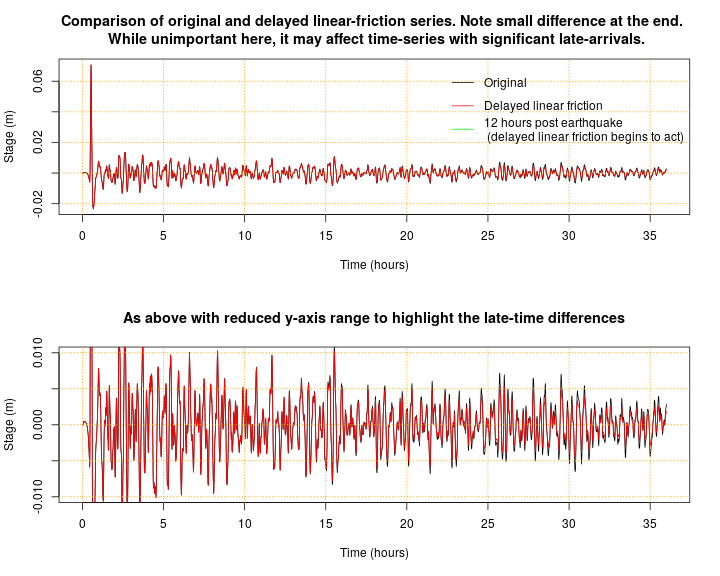
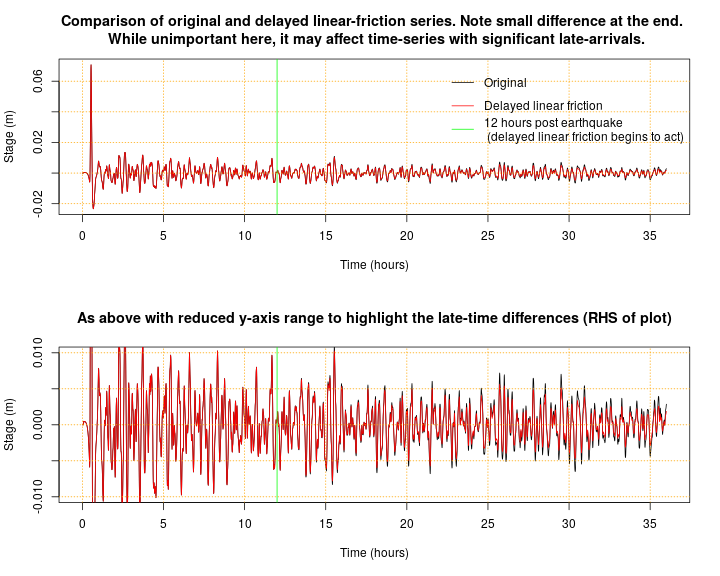
fix plot

Changed region(s): [[0.0917, 0.5312, 0.9472, 0.5625]]

diff --git a/ptha_access/DETAILED_README.md b/ptha_access/DETAILED_README.md
@@ -110,12 +110,7 @@ source('test_all.R')
 ## [1] "PASS"
 ## [1] "PASS"
 ## [1] "PASS"
-## Error in Rsx_nc4_get_vara_int: NetCDF: DAP failure
-## Var: table_rows  Ndims: 1   Start: 0 Count: 151755
-```
-
-```
-## Error in ncvar_get_inner(d$dimvarid$group_id, d$dimvarid$id, default_missval_ncdf4(), : C function Rsx_nc4_get_var_int returned error
+## [1] "PASS"
 ```
 **If the above script fails even after repeated trials, you need to troubleshoot
 your installation before proceeding**. [See here](INSTALL.md).
@@ -952,7 +947,7 @@ plot(site_flow$time/3600, site_flow$stage, t='l',
      xlab='Time (hours)', ylab='Stage (m)')
 points(site_flow_dlf$time/3600, site_flow_dlf$stage, t='l', col='red')
 grid(col='orange')
-abline(v=12*3600, col='green')
+abline(v=12, col='green')
 legend('topright', c('Original', 'Delayed linear friction', 
     '12 hours post earthquake \n (delayed linear friction begins to act)'),
     col=c('black', 'red', 'green'), lty=c(1,1,1), bty='n')
@@ -965,8 +960,8 @@ plot(site_flow$time/3600, site_flow$stage, t='l',
      xlab='Time (hours)', ylab='Stage (m)', ylim=c(-1,1)*0.01)
 points(site_flow_dlf$time/3600, site_flow_dlf$stage, t='l', col='red')
 grid(col='orange')
-abline(v=12*3600, col='green')
-title('As above with reduced y-axis range to highlight the late-time differences')
+abline(v=12, col='green')
+title('As above with reduced y-axis range to highlight the late-time differences (RHS of plot)')
 ```
 
 ![plot of chunk delayedLinearFriction](figure/delayedLinearFriction-1.png)
